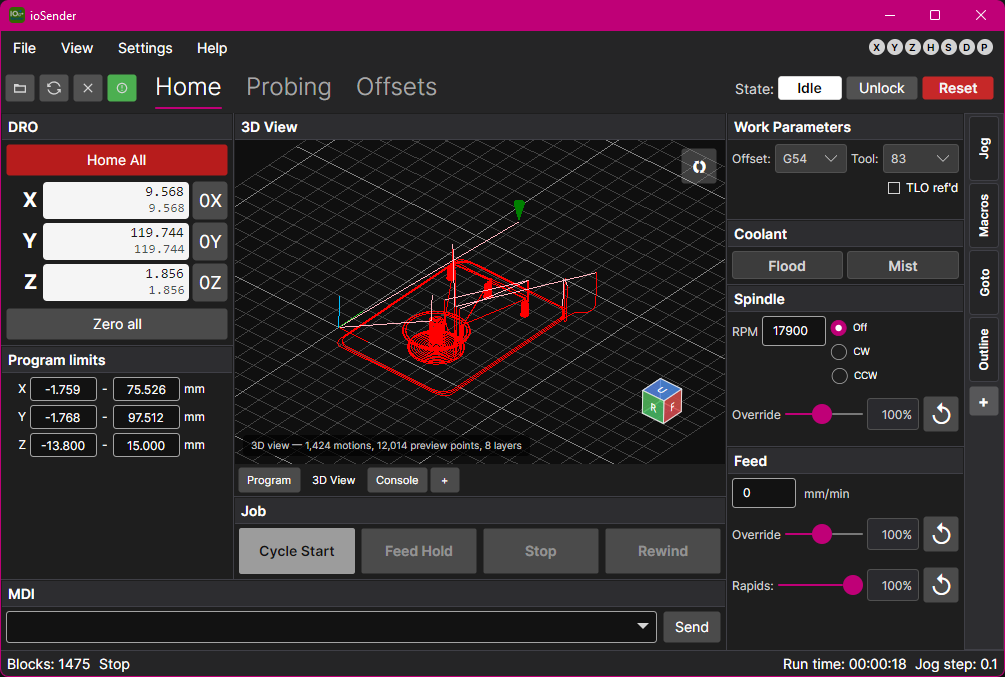
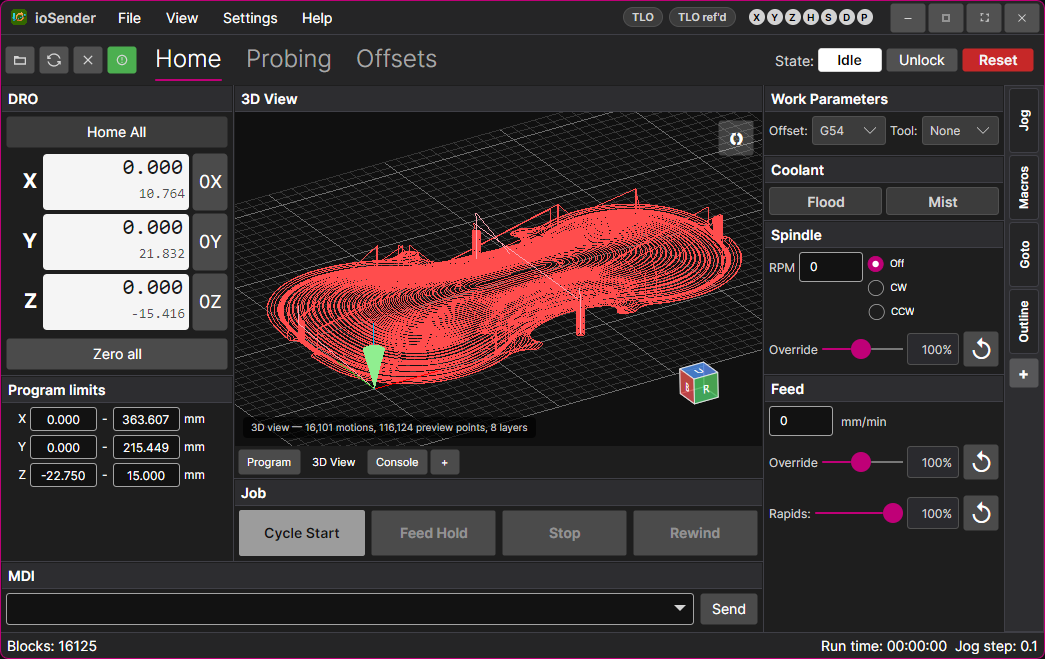
Layout Cleanup

diff --git a/CNC.Controls/Views/StatusPillControl.axaml.cs b/CNC.Controls/Views/StatusPillControl.axaml.cs
@@ -1,0 +1,32 @@
+using Avalonia;
+using Avalonia.Controls;
+using Avalonia.Media;
+
+namespace CNC.Controls.Avalonia.Views;
+
+public partial class StatusPillControl : UserControl
+{
+    static readonly IBrush ActiveBackground = Brushes.Red;
+    IBrush? _inactiveBackground;
+
+    public static readonly StyledProperty<bool> IsSetProperty =
+        AvaloniaProperty.Register<StatusPillControl, bool>(nameof(IsSet));
+
+    public static readonly StyledProperty<string> LabelProperty =
+        AvaloniaProperty.Register<StatusPillControl, string>(nameof(Label), string.Empty);
+
+    public StatusPillControl()
+    {
+        InitializeComponent();
+        _inactiveBackground = Pill.Background;
+    }
+
+    public new bool IsSet { get => GetValue(IsSetProperty); set => SetValue(IsSetProperty, value); }
+    public string Label { get => GetValue(LabelProperty); set => SetValue(LabelProperty, value); }
+
+    static StatusPillControl()
+    {
+        IsSetProperty.Changed.AddClassHandler<StatusPillControl>((c, e) =>
+            c.Pill.Background = (bool)e.NewValue! ? ActiveBackground : c._inactiveBackground);
+    }
+}

diff --git a/ioSender/Services/EarlyStartupBanner.cs b/ioSender/Services/EarlyStartupBanner.cs
@@ -227,11 +227,11 @@ internal static class EarlyStartupBanner
             DrawText(hdc, "Version: " + AppVersion.DisplayVersion, -1, ref versionRect, DT_CENTER | DT_SINGLELINE | DT_VCENTER);
 
             SetTextColor(hdc, 0x00D4D4D4);
-            var statusRect = new RECT { Left = 24, Top = 112, Right = Width - 24, Bottom = 132 };
+            var statusRect = new RECT { Left = 24, Top = 104, Right = Width - 24, Bottom = 144 };
             SelectObject(hdc, statusFont);
             DrawText(hdc, statusText, -1, ref statusRect, DT_CENTER | DT_SINGLELINE | DT_VCENTER);
 
-            var barRect = new RECT { Left = 96, Top = 140, Right = Width - 96, Bottom = 144 };
+            var barRect = new RECT { Left = 96, Top = 150, Right = Width - 96, Bottom = 154 };
             using var barBackground = new NativeBrush(0x00403D3D);
             FillRect(hdc, ref barRect, barBackground.Handle);
 